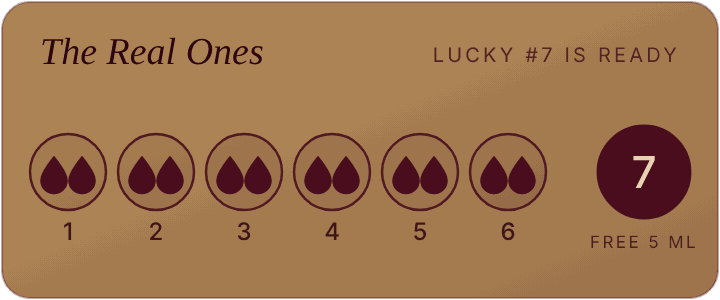
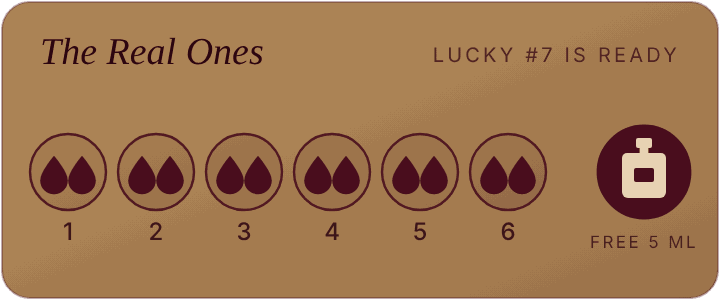
Lucky #7 earned shows a small velvet perfume bottle; homepage scent index in two balanced columns on phones
Claude-Session: https://claude.ai/code/session_01SaULHCJs3tbjSY6MmejFzJ

Changed region(s): [[0.8556, 0.45, 0.9472, 0.66]]

diff --git a/punchcard.js b/punchcard.js
@@ -21,7 +21,10 @@
     }
     var sx=W-38;
     s+='<circle cx="'+sx+'" cy="86" r="23" fill="'+(pending?M:"none")+'" stroke="'+M+'" stroke-width="1.4" stroke-dasharray="'+(pending?"0":"3 3")+'"/>'
-     +'<text x="'+sx+'" y="94" text-anchor="middle" font-family="Jost,system-ui,sans-serif" font-weight="500" font-size="22" fill="'+(pending?"#e8d3b4":M)+'">7</text>'
+     +(pending
+       /* lucky #7 earned: a small velvet perfume bottle (cap, neck, shoulders, body with a label) */
+       ? '<g transform="translate('+sx+' 86)" fill="#e8d3b4"><rect x="-4" y="-17" width="8" height="5" rx="1"/><rect x="-2.2" y="-12.5" width="4.4" height="3"/><path d="M-8.5-9.5h17a2.5 2.5 0 0 1 2.5 2.5v17a3 3 0 0 1-3 3h-16a3 3 0 0 1-3-3v-17a2.5 2.5 0 0 1 2.5-2.5z"/><rect x="-5" y="-2" width="10" height="7" rx="1" fill="'+M+'"/></g>'
+       : '<text x="'+sx+'" y="94" text-anchor="middle" font-family="Jost,system-ui,sans-serif" font-weight="500" font-size="22" fill="'+M+'">7</text>')
      +'<text x="'+sx+'" y="'+(86+38)+'" text-anchor="middle" font-family="Jost,system-ui,sans-serif" font-size="8.5" letter-spacing="1.2" fill="'+INK+'" fill-opacity=".75">FREE 5 ML</text>'
      +'</svg>';
     return s;

diff --git a/index.html b/index.html
@@ -791,7 +791,7 @@ section.x-coll{padding:var(--x-s4) 0;color:var(--x-text);background:radial-gradi
 .sidx .sidx-lede{text-align:center;color:var(--muted);margin:0 0 22px;font-size:14px}
 .sidx .cols{columns:3;column-gap:32px}
 @media(max-width:900px){.sidx .cols{columns:2}}
-@media(max-width:560px){.sidx .cols{columns:1}}
+@media(max-width:560px){.sidx .cols{columns:2;column-gap:18px}.sidx .cols .house{break-inside:auto}.sidx .cols .house a.h{display:block;break-after:avoid}.sidx .cols li{break-inside:avoid}.sidx .house a.h{font-size:17px}.sidx li{font-size:13px}.sidx li small{font-size:11.5px}.sidx li{margin:0 0 5px;line-height:1.35}}
 .sidx .house{break-inside:avoid;margin:0 0 18px}
 .sidx .house a.h{font-family:var(--serif);font-size:19px;color:var(--ink);text-decoration:none;letter-spacing:.02em}
 .sidx .house a.h:hover{text-decoration:underline}
